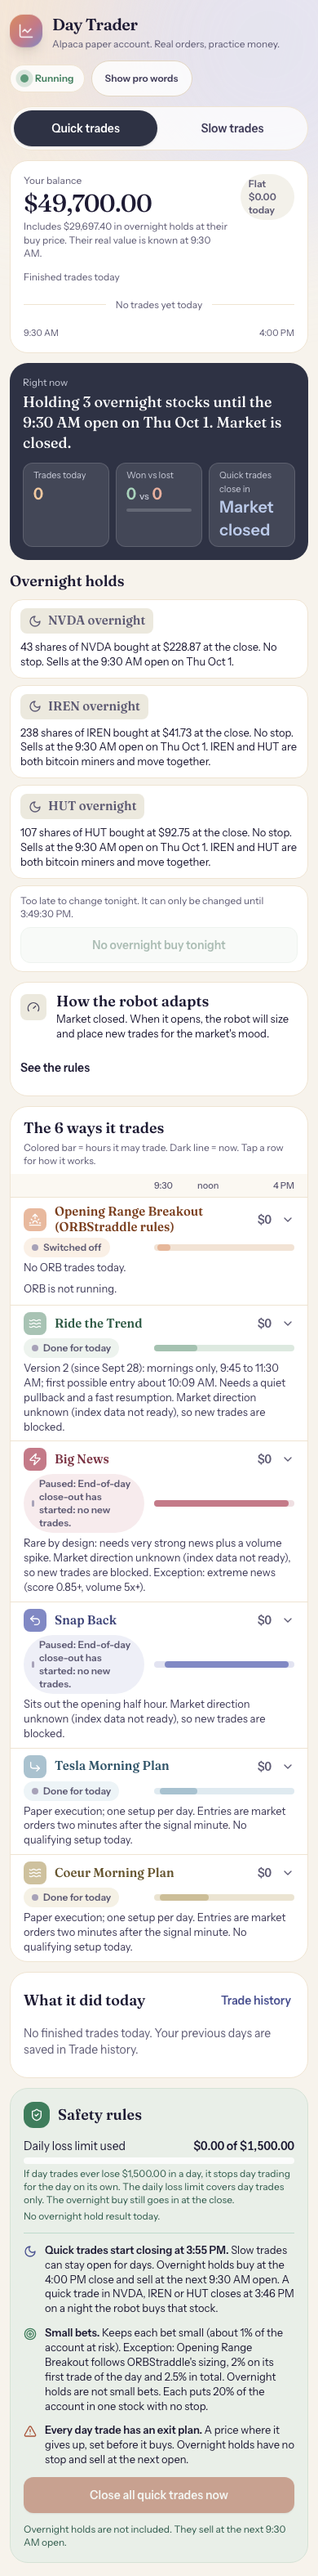
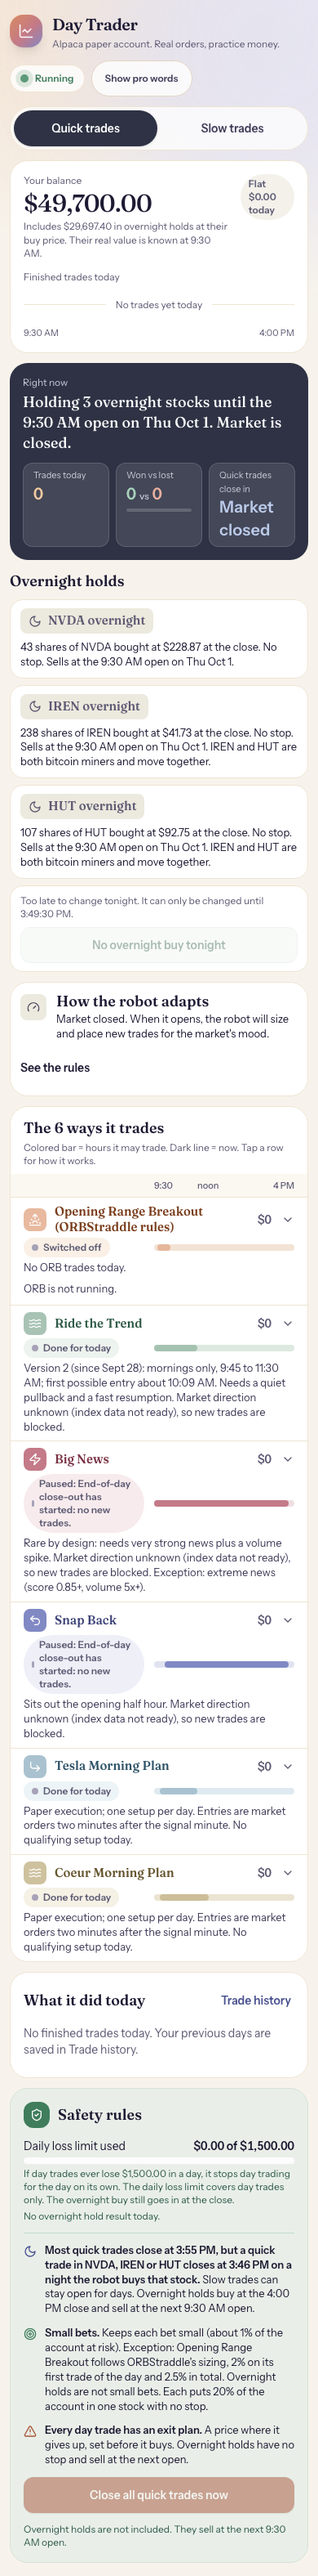
test(ui): Expect the new closing lead on a buy night
The page check now expects the lead with the 3:46 PM exception and
fails if a buy night still says every quick trade closes at 3:55 PM.
Evening screenshots regenerated. 584 of 584 checks.

Changed region(s): [[0.1231, 0.8708, 0.9231, 0.9019]]

diff --git a/scripts/verify_overnight_holds.py b/scripts/verify_overnight_holds.py
@@ -82,8 +82,10 @@ LOSS_LINE_NEW = ("If day trades ever lose $1,500.00 in a day, it stops day tradi
                  "The daily loss limit covers day trades only. The overnight buy still goes in at the close.")
 LOSS_LINE_OLD = "If it ever loses $1,500.00 in a day, it stops for the day on its own."
 QUICK_OLD = "Quick trades start closing at 3:55 PM. Slow trades can stay open for days."
-QUICK_NEW = (QUICK_OLD + " Overnight holds buy at the 4:00 PM close and sell at the next 9:30 AM open. "
-             "A quick trade in NVDA, IREN or HUT closes at 3:46 PM on a night the robot buys that stock.")
+# on a buy night the lead itself carries the 3:46 PM exception (X6), it never says all quick trades close at 3:55 PM
+QUICK_NEW = ("Most quick trades close at 3:55 PM, but a quick trade in NVDA, IREN or HUT closes at 3:46 PM on a night "
+             "the robot buys that stock. Slow trades can stay open for days. Overnight holds buy at the 4:00 PM close "
+             "and sell at the next 9:30 AM open.")
 SMALL_OLD = ("Small bets. Keeps each bet small (about 1% of the account at risk). Exception: Opening Range Breakout "
              "follows ORBStraddle's sizing, 2% on its first trade of the day and 2.5% in total.")
 SMALL_NEW = SMALL_OLD + " Overnight holds are not small bets. Each puts 20% of the account in one stock with no stop."
@@ -295,6 +297,9 @@ def run_matrix(s: Session) -> None:
     absent(s, "[data-testid=balance-overnight-note]", "day balance note (no holds)")
     contains(s, "[data-testid=risk-telemetry]", LOSS_LINE_NEW, "day Safety loss line")
     contains(s, "[data-testid=risk-telemetry]", QUICK_NEW, "day Safety closing line")
+    body = s.text("[data-testid=risk-telemetry]")
+    check("Quick trades start closing at 3:55 PM" not in body,
+          f"[{s.label}] day Safety lead never says every quick trade closes at 3:55 PM on a buy night")
     contains(s, "[data-testid=risk-telemetry]", SMALL_NEW, "day Safety small bets line")
     contains(s, "[data-testid=risk-telemetry]", EXIT_NEW, "day Safety exit plan line")
     contains(s, "[data-testid=risk-telemetry]", "Daily loss limit used $0.00 of $1,500.00", "day Safety meter")
